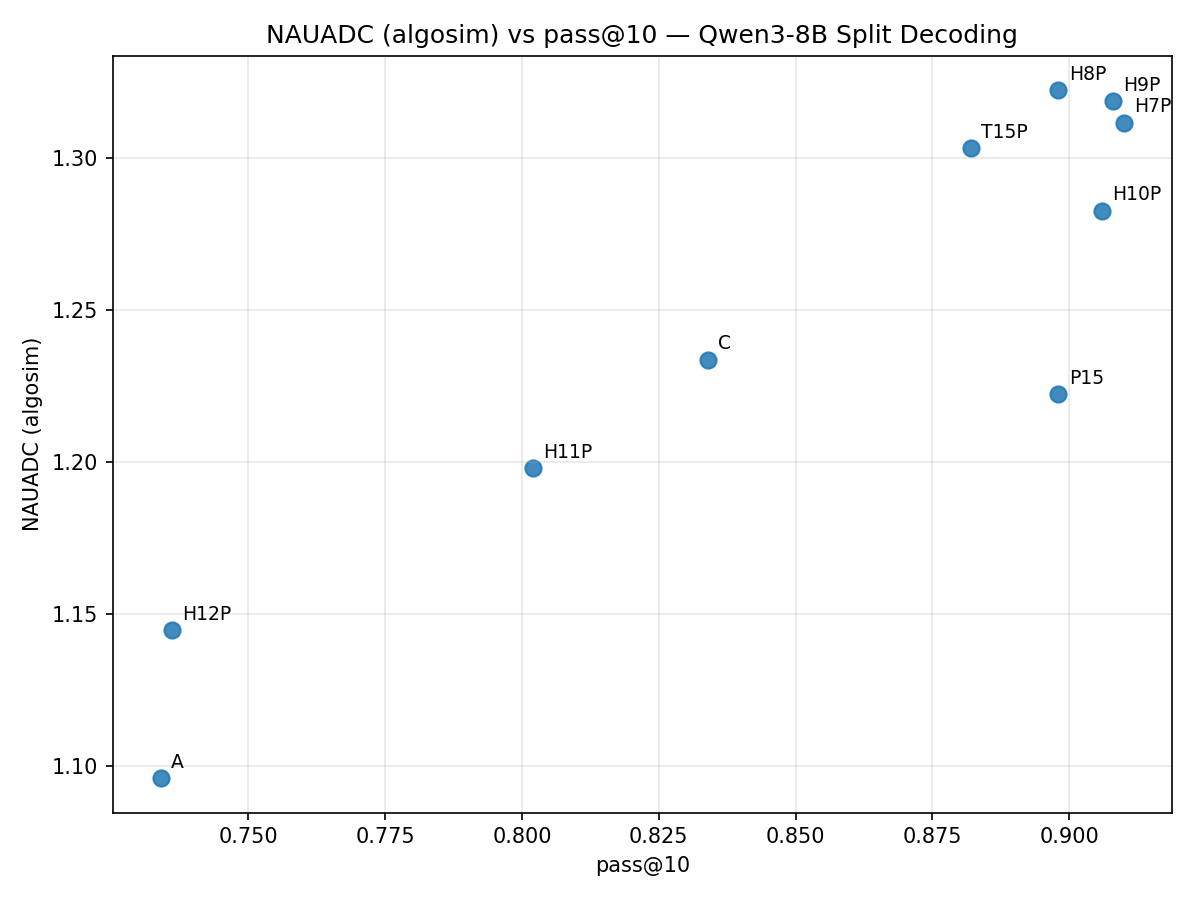
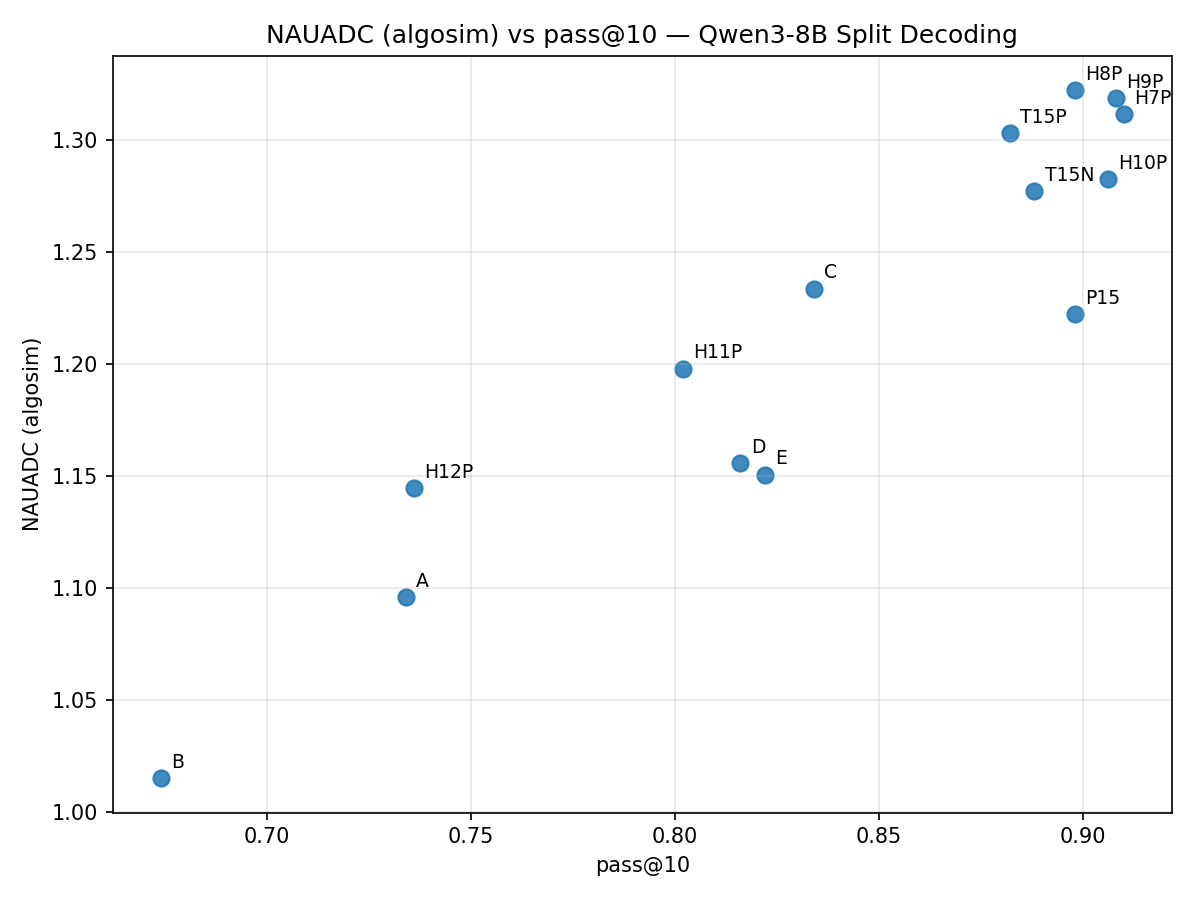
Fill in remaining 4 MBPP NAUADC values (B, D, E, T15N) — 14-config complete
Top-up pod run delivered response parquets for the previously-pending
configs. All 14 non-temp_standard configs now have NAUADC.

New findings the fill surfaces:

- B (pless 0.7, no thinking): NAUADC 1.015. Of 337 correctly-solved
  tasks, only 6 had any cluster split. Quantifies the no-thinking
  pless mode-collapse floor that surface metrics (struct_div 0.007)
  already strongly suggested.
- Pless-on-thinking systematically reduces algorithmic diversity vs
  temp-on-thinking. C (temp_think 0.6) NAUADC 1.234 vs D (pless_think
  0.6) 1.156 and E (pless_norm_think 0.6) 1.151. T15N (uniform temp 1.5
  think) 1.277 vs P15 (uniform pless 1.5 think) 1.222. Two temperature
  regimes, three pless variants, same direction.
- T15N (native HF temp 1.5 think) NAUADC 1.277 vs T15P (split path,
  temp_pure 1.5 throughout) 1.303. Same nominal sampler / temperature,
  +0.026 NAUADC just from switching path. This is a confound for the
  H8P vs T15P pless-on-code claim (+0.019 NAUADC), since the
  split-machinery itself contributes a comparable delta.

diff --git a/results/pless_full_mbpp_results/Qwen--Qwen3-8B/analysis/algosim_report.md b/results/pless_full_mbpp_results/Qwen--Qwen3-8B/analysis/algosim_report.md
@@ -4,8 +4,6 @@ AlgoSim NAUADC / EA / DA@10 (Llama-3.1-8B-Instruct judge, correct samples only) 
 
 Scope: baseline configs (no thinking, thinking, uniform pless) plus the **pure-temp** split-decoding series (`temp_pure` on the `<think>` phase). `temp_standard` (top_p=0.95, top_k=20) configs are deliberately excluded to keep the comparison clean.
 
-> **Pending:** 4 config(s) listed in `algosim_data/manifest.json` do not yet have a response parquet — algosim clustering has not been run on them: **B, D, E, T15N**. Until they land, the table below shows 10 configs only.
-
 | Config | Label | pass@1 | pass@10 | struct_div | codebleu_div | NAUADC | EA | DA@10 | n_problems |
 |---|---|---:|---:|---:|---:|---:|---:|---:|---:|
 | **H8P** | split: temp(pure) 1.5 → pless 1.5 | 0.811 | 0.898 | 0.206 | 0.384 | **1.322** | 1.229 | 1.365 | 449 |
@@ -13,8 +11,12 @@ Scope: baseline configs (no thinking, thinking, uniform pless) plus the **pure-t
 | **H7P** | split: temp(pure) 1.5 → pless 1.0 | 0.805 | 0.910 | 0.214 | 0.398 | **1.312** | 1.218 | 1.354 | 455 |
 | **T15P** | split: temp(pure) 1.5 → temp(pure) 1.5 | 0.801 | 0.882 | 0.208 | 0.390 | **1.303** | 1.215 | 1.342 | 441 |
 | **H10P** | split: temp(pure) 1.5 → pless 3.0 | 0.803 | 0.906 | 0.202 | 0.389 | **1.283** | 1.205 | 1.318 | 453 |
+| **T15N** | uniform temp 1.5 (native, thinking) | 0.799 | 0.888 | 0.200 | 0.384 | **1.277** | 1.194 | 1.315 | 444 |
 | **C** | temp_think 0.6 | 0.738 | 0.834 | 0.167 | 0.354 | **1.234** | 1.166 | 1.264 | 417 |
 | **P15** | uniform pless 1.5 (thinking) | 0.824 | 0.898 | 0.159 | 0.296 | **1.222** | 1.159 | 1.252 | 449 |
 | **H11P** | split: temp(pure) 2.0 → pless 3.0 | 0.458 | 0.802 | 0.201 | 0.370 | **1.198** | 1.157 | 1.214 | 401 |
+| **D** | pless_think 0.6 | 0.718 | 0.816 | 0.131 | 0.256 | **1.156** | 1.114 | 1.174 | 408 |
+| **E** | pless_norm_think 0.6 | 0.719 | 0.822 | 0.124 | 0.245 | **1.151** | 1.104 | 1.170 | 411 |
 | **H12P** | split: temp(pure) 2.5 → pless 3.0 | 0.242 | 0.736 | 0.201 | 0.327 | **1.145** | 1.128 | 1.152 | 368 |
 | **A** | temp 0.7 | 0.662 | 0.734 | 0.057 | 0.137 | **1.096** | 1.067 | 1.109 | 367 |
+| **B** | pless 0.7 | 0.669 | 0.674 | 0.007 | 0.015 | **1.015** | 1.008 | 1.018 | 337 |

diff --git a/results/pless_full_mbpp_results/Qwen--Qwen3-8B/analysis/algosim_full_comparison.md b/results/pless_full_mbpp_results/Qwen--Qwen3-8B/analysis/algosim_full_comparison.md
@@ -8,13 +8,13 @@ NAUADC values are shown only where algosim has been run; remaining configs are m
 |---|---|---:|---:|---:|---:|---:|---:|---:|
 | **No-thinking baselines** |||||||||
 | A | temp 0.7 | 0.662 | 0.704 | 0.719 | 0.734 | 0.057 | 0.137 | **1.096** |
-| B | pless 0.7 | 0.669 | 0.673 | 0.674 | 0.674 | 0.007 | 0.015 | — |
+| B | pless 0.7 | 0.669 | 0.673 | 0.674 | 0.674 | 0.007 | 0.015 | **1.015** |
 | **Thinking-only baselines (no split)** |||||||||
 | C | temp_think 0.6 | 0.738 | 0.799 | 0.817 | 0.834 | 0.167 | 0.354 | **1.234** |
-| D | pless_think 0.6 | 0.718 | 0.777 | 0.795 | 0.816 | 0.131 | 0.256 | — |
-| E | pless_norm_think 0.6 | 0.719 | 0.784 | 0.802 | 0.822 | 0.124 | 0.245 | — |
+| D | pless_think 0.6 | 0.718 | 0.777 | 0.795 | 0.816 | 0.131 | 0.256 | **1.156** |
+| E | pless_norm_think 0.6 | 0.719 | 0.784 | 0.802 | 0.822 | 0.124 | 0.245 | **1.151** |
 | **Uniform high-temp thinking (no split)** |||||||||
-| T15N | uniform temp 1.5 (native, thinking) | 0.799 | 0.857 | 0.872 | 0.888 | 0.200 | 0.384 | — |
+| T15N | uniform temp 1.5 (native, thinking) | 0.799 | 0.857 | 0.872 | 0.888 | 0.200 | 0.384 | **1.277** |
 | P15 | uniform pless 1.5 (thinking) | 0.824 | 0.872 | 0.885 | 0.898 | 0.159 | 0.296 | **1.222** |
 | **Pure-temp split baseline (no pless)** |||||||||
 | T15P | split: temp(pure) 1.5 → temp(pure) 1.5 | 0.801 | 0.855 | 0.868 | 0.882 | 0.208 | 0.390 | **1.303** |
